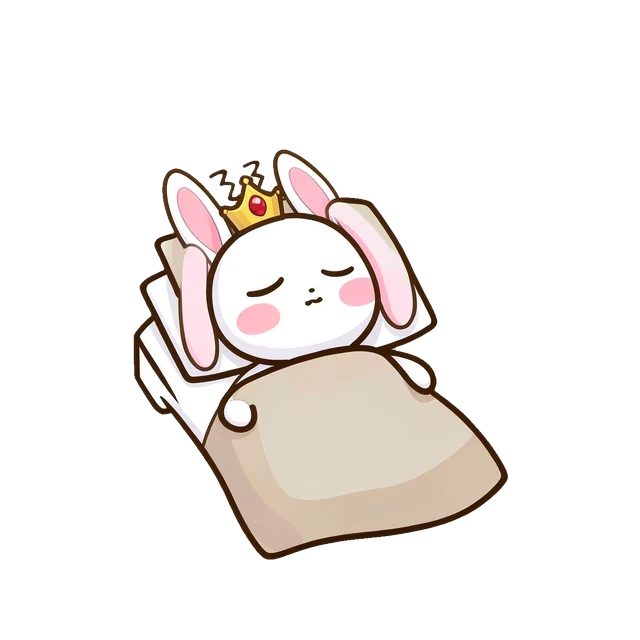
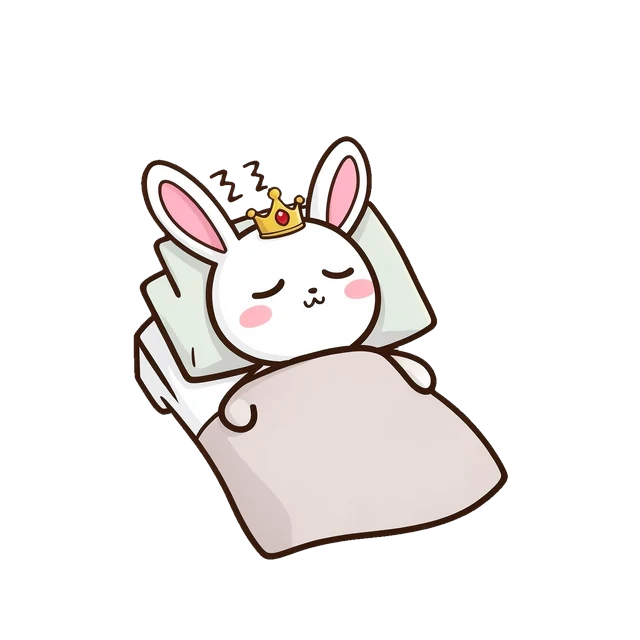
alfa 9d8fc76: Pets: CrazyBunny adulta dormida con dos orejas (v4)

Changed region(s): [[0.2188, 0.1875, 0.7812, 0.875], [0.4688, 0.4375, 0.5, 0.5]]

diff --git a/alfa/index.html b/alfa/index.html
@@ -10,10 +10,10 @@
 <link rel="preconnect" href="https://fonts.googleapis.com">
 <link rel="preconnect" href="https://fonts.gstatic.com" crossorigin>
 <link rel="stylesheet" href="https://fonts.googleapis.com/css2?family=Baloo+2:wght@600;700;800&family=Luckiest+Guy&display=swap">
-<link rel="stylesheet" href="core/css/base.css?v=a9abbc8">
-<link rel="stylesheet" href="biblioteca/tienda.css?v=a9abbc8">
-<link rel="stylesheet" href="novedades/ventana.css?v=a9abbc8">
-<link rel="stylesheet" href="biblioteca/votos.css?v=a9abbc8">
+<link rel="stylesheet" href="core/css/base.css?v=9d8fc76">
+<link rel="stylesheet" href="biblioteca/tienda.css?v=9d8fc76">
+<link rel="stylesheet" href="novedades/ventana.css?v=9d8fc76">
+<link rel="stylesheet" href="biblioteca/votos.css?v=9d8fc76">
 <style>
   /* la entrada de la web: una tarjeta por juego, con los colores y las letras de core */
   body { overflow: auto; touch-action: auto; align-items: flex-start; background-repeat: no-repeat; background-attachment: fixed; }
@@ -61,7 +61,7 @@
 </style>
 </head>
 <body>
-<script src="menu.js?v=a9abbc8" data-base="" data-core="1" data-pagina=""></script>
+<script src="menu.js?v=9d8fc76" data-base="" data-core="1" data-pagina=""></script>
 <div class="nov-fondo" id="novedades" hidden>
   <div class="nov-caja" role="dialog" aria-modal="true" aria-labelledby="nov-titulo">
     <div class="nov-cabeza"><h2 class="ol" id="nov-titulo">NOVEDADES</h2><p id="nov-sub"></p></div>
@@ -345,8 +345,8 @@
   </section>
   <p class="note" id="pie-fansof">Fans Of™ · © 2026 Arkioner y Pepins · MicroBlizz · Todos los derechos reservados</p>
 </main>
-<script src="core/js/nucleo.js?v=0-a804.a9abbc8"></script>
-<script src="core/js/novedades.js?v=a9abbc8"></script>
+<script src="core/js/nucleo.js?v=0-a805.9d8fc76"></script>
+<script src="core/js/novedades.js?v=9d8fc76"></script>
 <script>
 // La cuenta de la web es la misma de los juegos (core/js/sistema/cuenta.js, mismo navegador = misma sesión). Aquí no hay partida que subir.
 const AJUSTES = { id: 'web', guardado: 'fansof-web' }, SAVE_KEY = AJUSTES.guardado, SAVE = {};
@@ -355,7 +355,7 @@ const HOOKS = {};
 function hook(name, fn) { (HOOKS[name] = HOOKS[name] || []).push(fn); }
 function fire(name, ...a) { let out = ''; for (const fn of HOOKS[name] || []) { const r = fn(...a); if (typeof r === 'string') out += r; } return out; }
 </script>
-<script src="core/js/sistema/cuenta.js?v=a9abbc8"></script>
+<script src="core/js/sistema/cuenta.js?v=9d8fc76"></script>
 <script>NUCLEO.idiomaSolo({ en: ['core/idioma/en-raiz.js', 'novedades/en.js', 'biblioteca/en.js','games/rumble/idioma/en-7.js', 'games/td/idioma/en-2.js', 'games/survivors/idioma/en.js', 'games/crush/idioma/en-raiz.js', 'games/jump/idioma/en-raiz.js', 'games/taxi/idioma/en-raiz.js', 'games/dark/idioma/en-raiz.js', 'games/nova/idioma/en-raiz.js', 'demos/beams/idioma/en-raiz.js', 'demos/snakes/idioma/en-raiz.js', 'demos/merge/idioma/en-raiz.js', 'demos/swipe/idioma/en-raiz.js', 'demos/pop/idioma/en-raiz.js', 'demos/vikings/idioma/en-raiz.js', 'demos/goose/idioma/en-raiz.js', 'demos/asalto/idioma/en-raiz.js', 'demos/auto/idioma/en-raiz.js', 'demos/shelter/idioma/en-raiz.js', 'games/island/idioma/en-raiz.js', 'demos/rumble-3d/idioma/en-raiz.js', 'demos/roguelite/idioma/en-raiz.js', 'demos/tactics-advance/idioma/en-raiz.js', 'games/rouflage/idioma/en-raiz.js', 'demos/dungeons/idioma/en-raiz.js', 'games/karts/idioma/en-raiz.js', 'demos/recruit/idioma/en-raiz.js', 'demos/terminal-shock/idioma/en-raiz.js', 'games/ratkov/idioma/en-raiz.js'] })</script>
 <script>
 // La versión y las novedades salen de los archivos de cada juego, así que esta página nunca se queda atrás.
@@ -381,14 +381,14 @@ const fail = id => () => {
 };
 
 </script>
-<script src="core/js/proximamente.js?v=a9abbc8"></script>
-<script src="novedades/ventana.js?v=a9abbc8"></script>
-<script src="biblioteca/tienda.js?v=a9abbc8"></script>
-<script src="core/js/sistema/beta.js?v=a9abbc8"></script>
-<script src="biblioteca/cuenta-web.js?v=a9abbc8"></script>
-<script src="biblioteca/votos.js?v=a9abbc8"></script>
-<script src="biblioteca/alfa.js?v=a9abbc8"></script>
-<script src="core/js/sistema/analitica.js?v=a9abbc8"></script>
-<script src="pie.js?v=a9abbc8" defer></script>
+<script src="core/js/proximamente.js?v=9d8fc76"></script>
+<script src="novedades/ventana.js?v=9d8fc76"></script>
+<script src="biblioteca/tienda.js?v=9d8fc76"></script>
+<script src="core/js/sistema/beta.js?v=9d8fc76"></script>
+<script src="biblioteca/cuenta-web.js?v=9d8fc76"></script>
+<script src="biblioteca/votos.js?v=9d8fc76"></script>
+<script src="biblioteca/alfa.js?v=9d8fc76"></script>
+<script src="core/js/sistema/analitica.js?v=9d8fc76"></script>
+<script src="pie.js?v=9d8fc76" defer></script>
 </body>
 </html>

diff --git a/alfa/games/rouflage/index.html b/alfa/games/rouflage/index.html
@@ -10,7 +10,7 @@
 <link rel="preconnect" href="https://fonts.googleapis.com">
 <link rel="preconnect" href="https://fonts.gstatic.com" crossorigin>
 <link rel="stylesheet" href="https://fonts.googleapis.com/css2?family=Baloo+2:wght@600;700;800&family=Luckiest+Guy&display=swap">
-<script src="../../core/js/nucleo.js?v=0.2.63-a804.a9abbc8"></script>
+<script src="../../core/js/nucleo.js?v=0.2.63-a805.9d8fc76"></script>
 <script>NUCLEO.estilos('../../core/css/base.css', '../../core/css/menus.css', '../../core/css/menus-extra.css')</script>
 <script>NUCLEO.estilos('estilo.css', 'estilo-taller.css', 'estilo-pantallas.css', 'estilo-pvp.css', 'estilo-armario.css', 'estilo-menus.css', 'estilo-misiones.css', 'estilo-escenario.css', 'estilo-votos.css', 'estilo-gacha.css', 'estilo-compra.css', 'estilo-fin.css', 'estilo-talentos.css', 'estilo-chat.css', 'estilo-titulo.css', 'estilo-barra.css', 'estilo-sala-viva.css', 'estilo-obra.css', 'estilo-ayuda.css', 'estilo-carga.css')</script>      <!-- la intro, la última: pisa el #carga de estilo.css (antes iba en línea dentro de #carga) -->
 </head>

diff --git a/alfa/demos/rumble-v2/index.html b/alfa/demos/rumble-v2/index.html
@@ -18,7 +18,7 @@
 <!-- core/js/nucleo.js carga lo común y el juego. LA VERSIÓN SE ESCRIBE SOLO AQUÍ, en su ?v= -->
 <!-- GENERADO por herramientas/rumble_v2.py desde games/rumble/index.html: no editar a mano -->
 <script>try { const u = new URL(location.href); if (u.searchParams.get('nube') !== '0') { u.searchParams.set('nube', '0'); history.replaceState(null, '', u); } } catch (e) { /* sin dirección */ }</script>
-<script src="../../core/js/nucleo.js?v=0.9.158-a804.a9abbc8"></script>
+<script src="../../core/js/nucleo.js?v=0.9.158-a805.9d8fc76"></script>
 <script>NUCLEO.estilos('../../core/css/menus.css', '../../games/rumble/css/estilos-partida.css', '../../games/rumble/css/estilos-extra.css', '../../games/rumble/css/arena.css', '../../core/css/biblioteca.css', '../../games/rumble/css/facciones-y-jefes.css', '../../core/css/clasificacion.css', '../../games/rumble/css/frases.css', '../../games/rumble/css/mitica.css', '../../games/rumble/css/paletas.css')</script>
 
 </head>

diff --git a/alfa/games/karts/index.html b/alfa/games/karts/index.html
@@ -8,7 +8,7 @@
 <meta name="description" content="Fans of Karts (juego): carreras de karts en pixel art de consola portátil con los líderes de Fans of Rumble. Tres pistas, seis pilotos, objetos con mala idea y Microblizz, que ha comprado la carrera.">
 <link rel="icon" type="image/png" href="img/icon-192.png">
 <link rel="apple-touch-icon" href="img/icon-192.png">
-<script src="../../core/js/nucleo.js?v=0.7.15-a804.a9abbc8"></script>
+<script src="../../core/js/nucleo.js?v=0.7.15-a805.9d8fc76"></script>
 <script>NUCLEO.estilos('../../core/css/base.css', '../../core/css/menus.css', '../../core/css/menus-tienda.css', '../../core/css/menus-extra.css', 'css/tienda.css', 'css/pvp.css')</script>
 <link rel="stylesheet" href="https://fonts.googleapis.com/css2?family=Baloo+2:wght@600;700;800&family=Luckiest+Guy&display=swap">
 <style>

diff --git a/alfa/games/dark/index.html b/alfa/games/dark/index.html
@@ -12,7 +12,7 @@
 <link rel="stylesheet" href="https://fonts.googleapis.com/css2?family=Baloo+2:wght@600;700;800&family=Luckiest+Guy&family=Press+Start+2P&family=Pixelify+Sans:wght@400;600;700&display=swap">
 <link rel="stylesheet" href="css/dark.css?v=0.2.4">
 <!-- Prototipo: no usa NUCLEO (tiene su propia partida guardada). Carga de core el arte, la música, los efectos y las cifras del Rumble.
-     VERSIÓN para desplegar.py (que la busca así): nucleo.js?v=0.2.7-a804.a9abbc8' (aquí solo se anota; súbela junto al ?v= de los scripts). -->
+     VERSIÓN para desplegar.py (que la busca así): nucleo.js?v=0.2.7-a805.9d8fc76' (aquí solo se anota; súbela junto al ?v= de los scripts). -->
 </head>
 <body>
 <canvas id="cv" aria-label="Mazmorra"></canvas>

diff --git a/alfa/games/rumble/index.html b/alfa/games/rumble/index.html
@@ -16,7 +16,7 @@
 <link rel="preconnect" href="https://fonts.gstatic.com" crossorigin>
 <link rel="stylesheet" href="https://fonts.googleapis.com/css2?family=Baloo+2:wght@600;700;800&family=Luckiest+Guy&display=swap">
 <!-- core/js/nucleo.js carga lo común y el juego. LA VERSIÓN SE ESCRIBE SOLO AQUÍ, en su ?v= -->
-<script src="../../core/js/nucleo.js?v=0.9.158-a804.a9abbc8"></script>
+<script src="../../core/js/nucleo.js?v=0.9.158-a805.9d8fc76"></script>
 <script>NUCLEO.estilos('../../core/css/menus.css', 'css/estilos-partida.css', 'css/estilos-extra.css', 'css/arena.css', '../../core/css/biblioteca.css', 'css/facciones-y-jefes.css', '../../core/css/clasificacion.css', 'css/frases.css', 'css/mitica.css', 'css/paletas.css')</script>
 
 </head>

diff --git a/alfa/games/jump/index.html b/alfa/games/jump/index.html
@@ -12,7 +12,7 @@
 <link rel="preconnect" href="https://fonts.gstatic.com" crossorigin>
 <link rel="stylesheet" href="https://fonts.googleapis.com/css2?family=Baloo+2:wght@600;700;800&family=Luckiest+Guy&display=swap">
 <!-- ?v= es la versión del juego (la misma en la web y en la app): súbela al publicar y pon su entrada en js/novedades.js -->
-<script src="../../core/js/nucleo.js?v=0.3.16-a804.a9abbc8"></script>
+<script src="../../core/js/nucleo.js?v=0.3.16-a805.9d8fc76"></script>
 <script>NUCLEO.estilos('../../core/css/base.css', '../../core/css/menus.css')</script>
 <style>
 /* Fans of Jump: un solo canvas a la resolución real de la pantalla, con los dibujos 3D. El mundo mide unos 200 de ancho y se

diff --git a/alfa/games/decks/index.html b/alfa/games/decks/index.html
@@ -15,7 +15,7 @@
 <link rel="preconnect" href="https://fonts.gstatic.com" crossorigin>
 <link rel="stylesheet" href="https://fonts.googleapis.com/css2?family=Baloo+2:wght@600;700;800&family=Luckiest+Guy&display=swap">
 <!-- core/js/nucleo.js carga lo común y el juego. LA VERSIÓN SE ESCRIBE SOLO AQUÍ, en su ?v= -->
-<script src="../../core/js/nucleo.js?v=0.2.21-a804.a9abbc8"></script>
+<script src="../../core/js/nucleo.js?v=0.2.21-a805.9d8fc76"></script>
 <script>NUCLEO.estilos('../../core/css/base.css', '../../core/css/menus.css', 'css/decks.css', 'css/decks-reunion.css', 'css/decks-anim.css', 'css/decks-campana.css', 'css/decks-lideres.css')</script>
 </head>
 <body>

diff --git a/alfa/games/ratkov/index.html b/alfa/games/ratkov/index.html
@@ -13,7 +13,7 @@
 <link rel="preconnect" href="https://fonts.gstatic.com" crossorigin>
 <link rel="stylesheet" href="https://fonts.googleapis.com/css2?family=VT323&family=Russo+One&display=swap">
 <script src="https://cdnjs.cloudflare.com/ajax/libs/three.js/r128/three.min.js"></script>
-<script src="../../core/js/nucleo.js?v=0.2.29-a804.a9abbc8"></script>
+<script src="../../core/js/nucleo.js?v=0.2.29-a805.9d8fc76"></script>
 <script>NUCLEO.estilos('../../core/css/base.css', '../../core/css/menus.css')</script>
 <link rel="stylesheet" href="estilo.css?v=0.2.3">
 <link rel="stylesheet" href="estilo-refugio.css?v=0.2.3">

diff --git a/alfa/games/survivors/index.html b/alfa/games/survivors/index.html
@@ -15,7 +15,7 @@
 <link rel="preconnect" href="https://fonts.gstatic.com" crossorigin>
 <link rel="stylesheet" href="https://fonts.googleapis.com/css2?family=Baloo+2:wght@600;700;800&family=Luckiest+Guy&display=swap">
 <!-- core/js/nucleo.js carga lo común y el juego. LA VERSIÓN SE ESCRIBE SOLO AQUÍ, en su ?v= -->
-<script src="../../core/js/nucleo.js?v=0.1.71-a804.a9abbc8"></script>
+<script src="../../core/js/nucleo.js?v=0.1.71-a805.9d8fc76"></script>
 <script>NUCLEO.estilos('../../core/css/base.css', '../../core/css/menus.css', 'css/survivors.css', '../../core/css/biblioteca.css')</script>
 </head>
 <body>

diff --git a/alfa/games/td/index.html b/alfa/games/td/index.html
@@ -15,7 +15,7 @@
 <link rel="preconnect" href="https://fonts.gstatic.com" crossorigin>
 <link rel="stylesheet" href="https://fonts.googleapis.com/css2?family=Baloo+2:wght@600;700;800&family=Luckiest+Guy&display=swap">
 <!-- core/js/nucleo.js carga lo común y el juego. LA VERSIÓN SE ESCRIBE SOLO AQUÍ, en su ?v= -->
-<script src="../../core/js/nucleo.js?v=0.13.87-a804.a9abbc8"></script>
+<script src="../../core/js/nucleo.js?v=0.13.87-a805.9d8fc76"></script>
 <script>NUCLEO.estilos('../../core/css/base.css', 'css/td.css', '../../core/css/menus.css', '../../core/css/biblioteca.css')</script>
 </head>
 <body>

diff --git a/alfa/demos/goose/index.html b/alfa/demos/goose/index.html
@@ -10,7 +10,7 @@
 <link rel="preconnect" href="https://fonts.gstatic.com" crossorigin>
 <link rel="stylesheet" href="https://fonts.googleapis.com/css2?family=Jersey+15&family=Pirata+One&display=swap">
 <!-- ?v= es la versión de la demo: súbela al publicar -->
-<script src="../../core/js/nucleo.js?v=0.10.0-a804.a9abbc8"></script>
+<script src="../../core/js/nucleo.js?v=0.10.0-a805.9d8fc76"></script>
 <script>NUCLEO.estilos('../../core/css/base.css', '../../core/css/menus.css')</script>
 <style>
 /* Fans of Goose: un solo canvas en vertical, a la resolución real del móvil. El mundo mide 200 de ancho. */
